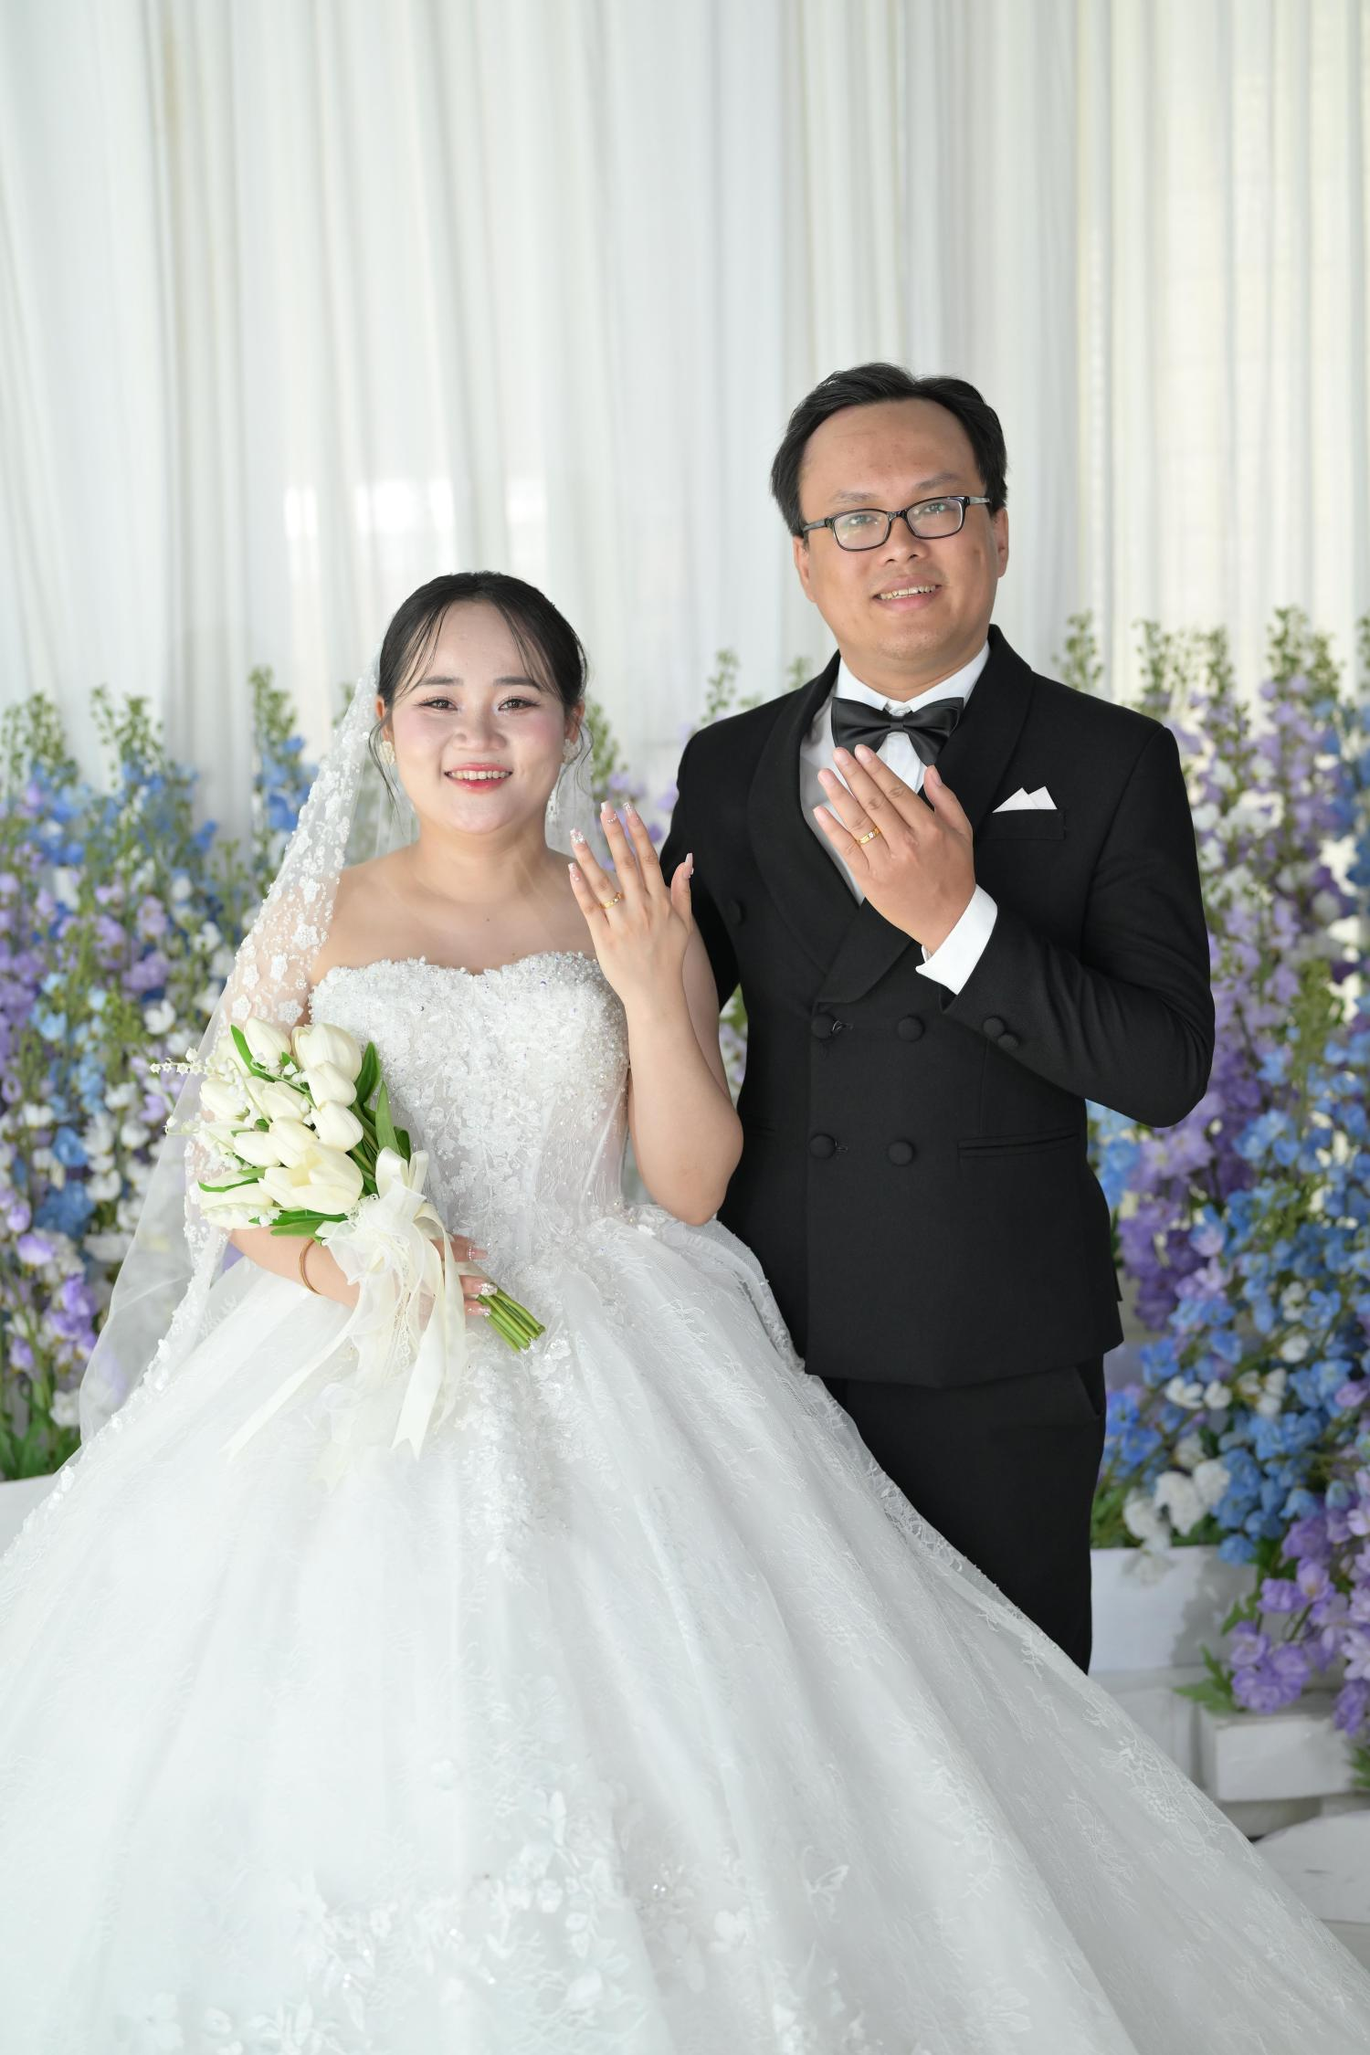
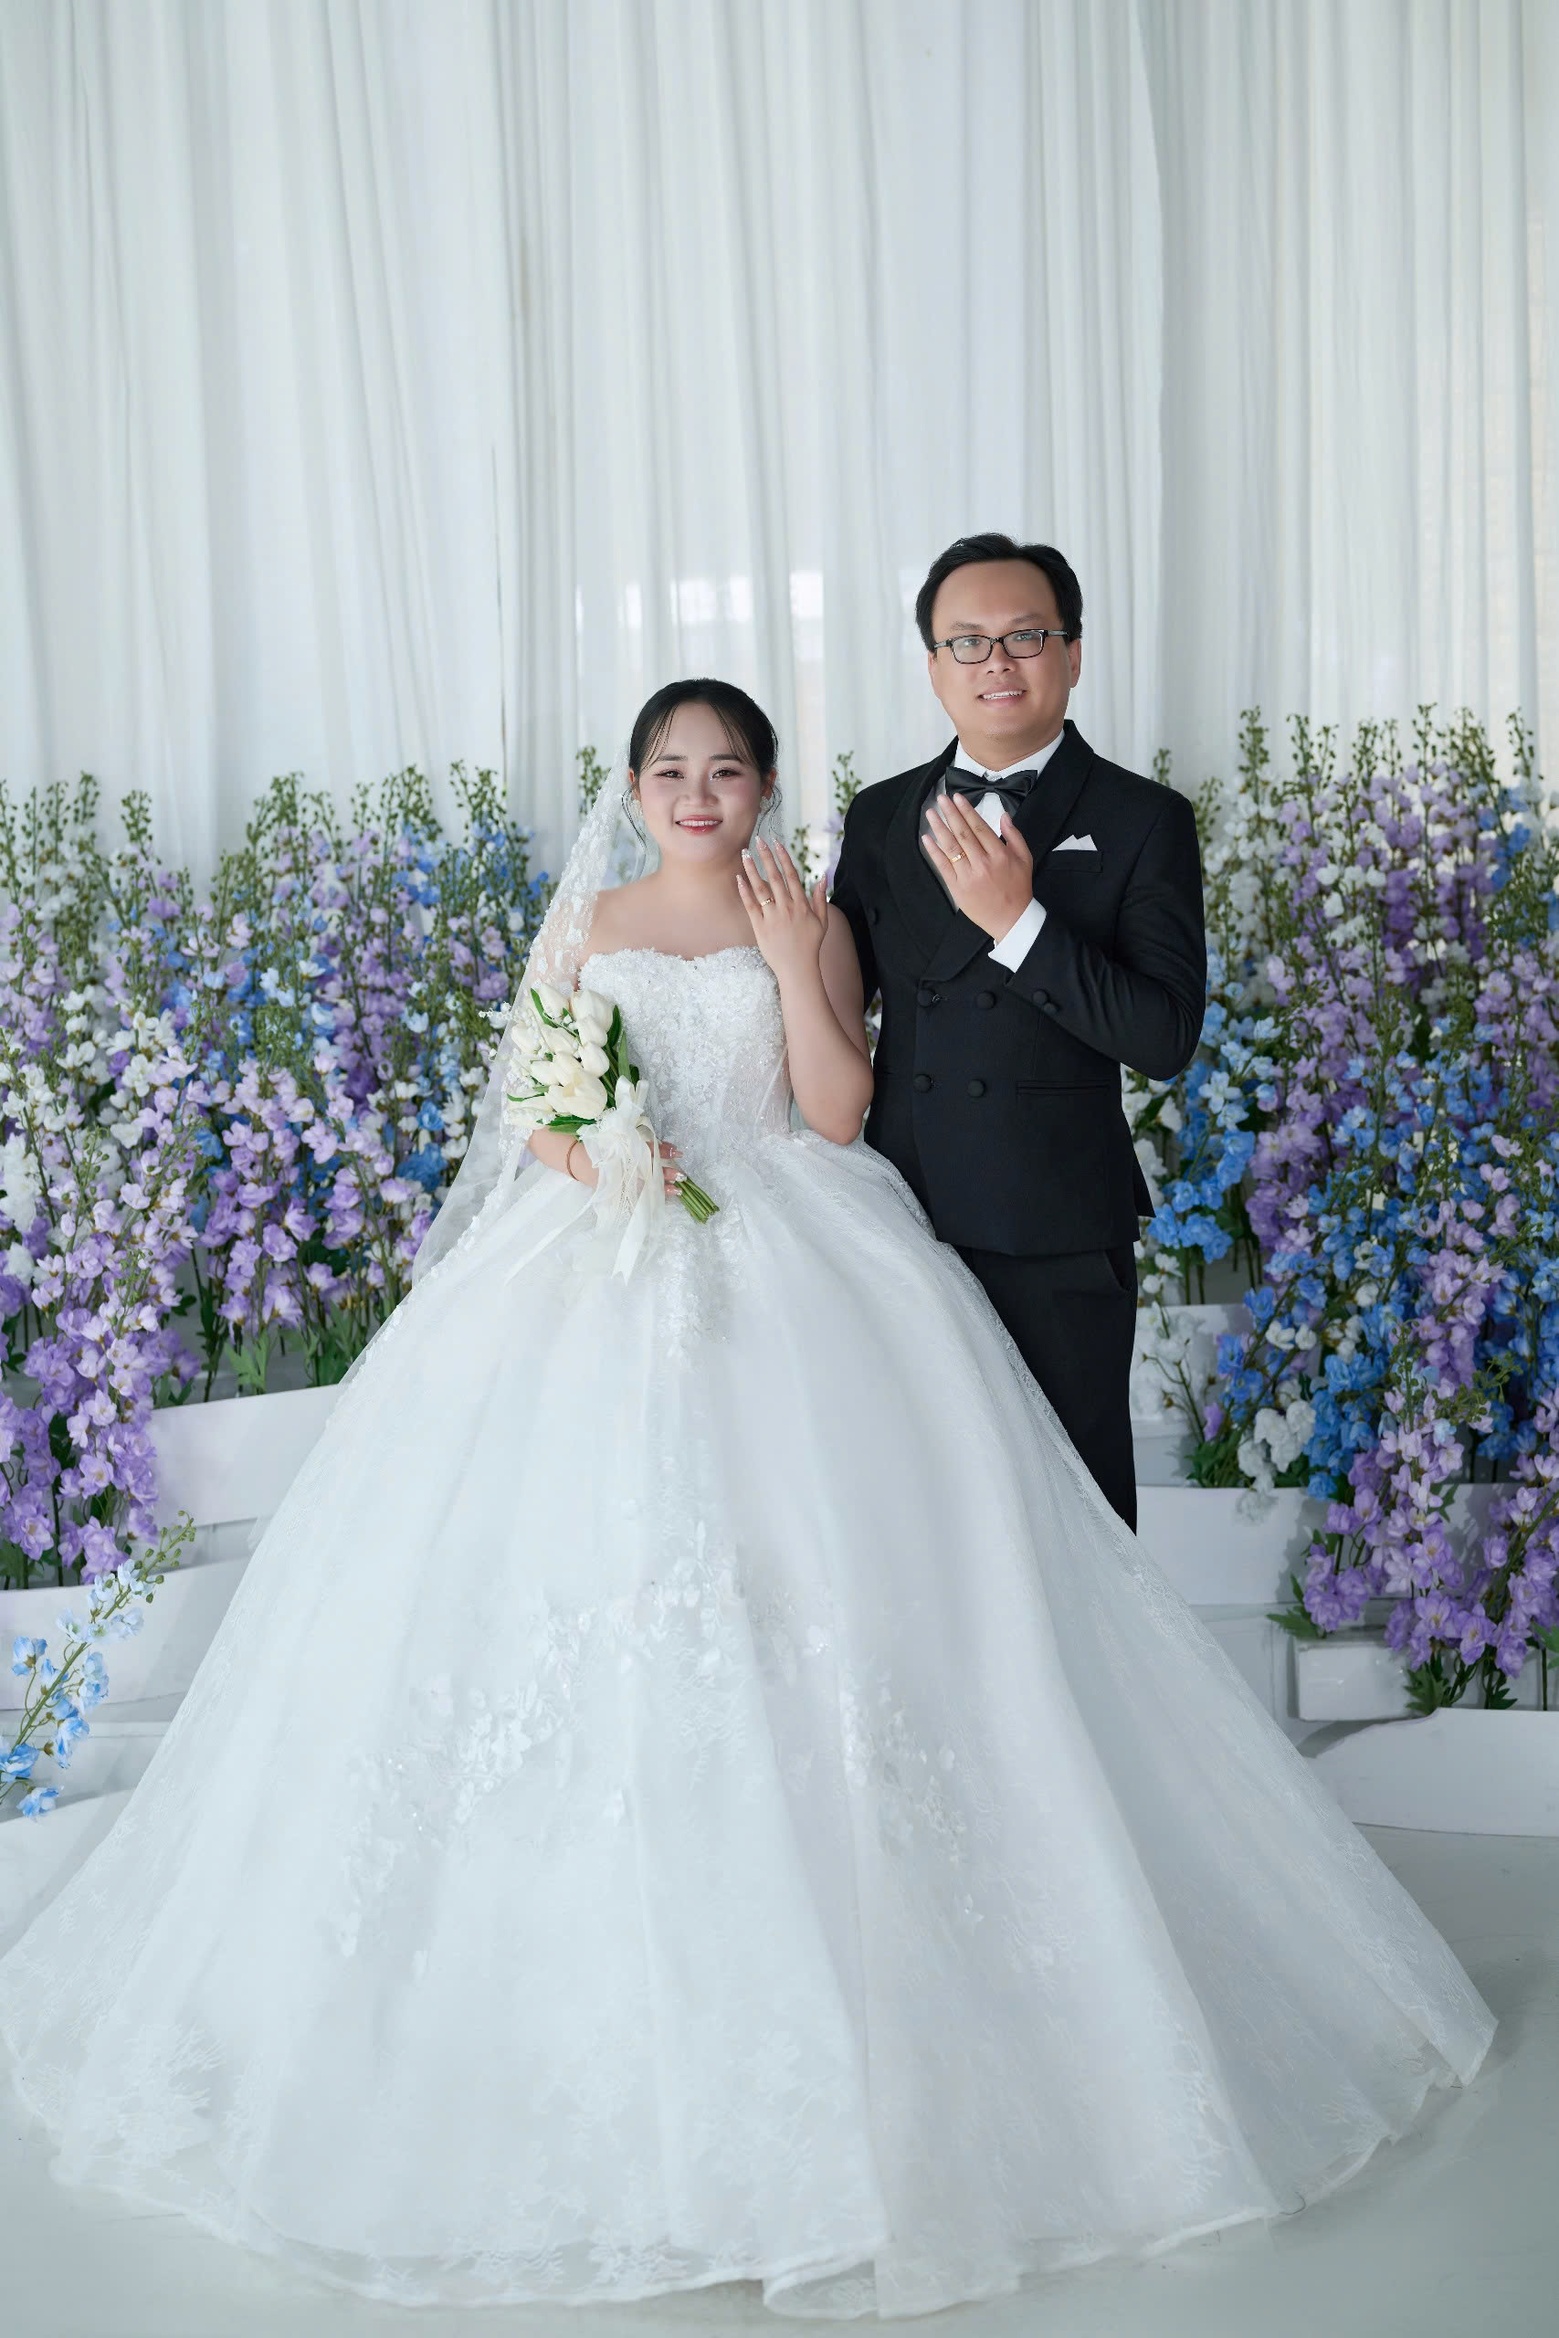
last update

diff --git a/index.html b/index.html
@@ -324,7 +324,7 @@
         </div>
 
         <p class="families__formal">
-          Trân trọng báo tin lễ thành hôn của con chúng tôi
+          Trân trọng báo tin lễ vu quy của con chúng tôi
         </p>
 
         <div class="families__couple">
